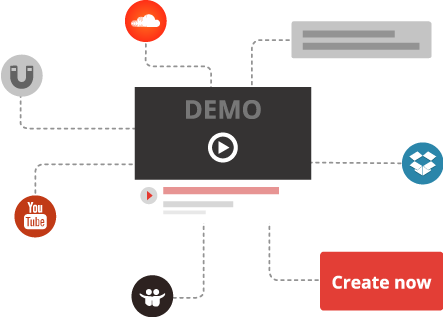
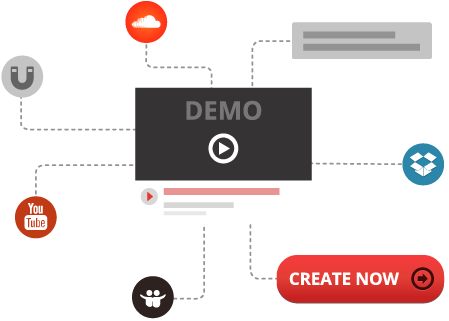
changed graphic on homepage

diff --git a/core/layout/sass/_responsive.scss b/core/layout/sass/_responsive.scss
@@ -75,7 +75,6 @@
             @include svg-with-png-fallback(svg/graphic_intro_new, no-repeat);
 
             a {
-
               &#demo {
               position: absolute;
               display: block;
@@ -90,11 +89,11 @@
             a {
               &#createNow {
               position: absolute;
-              bottom: 7px;
-              right: 0;
+              bottom: 19px;
+              right: 5px;
               display: block;
-              width: 123px;
-              height: 60px;
+              width: 165px;
+              height: 47px;
               @include squish-text;
               }
             }
